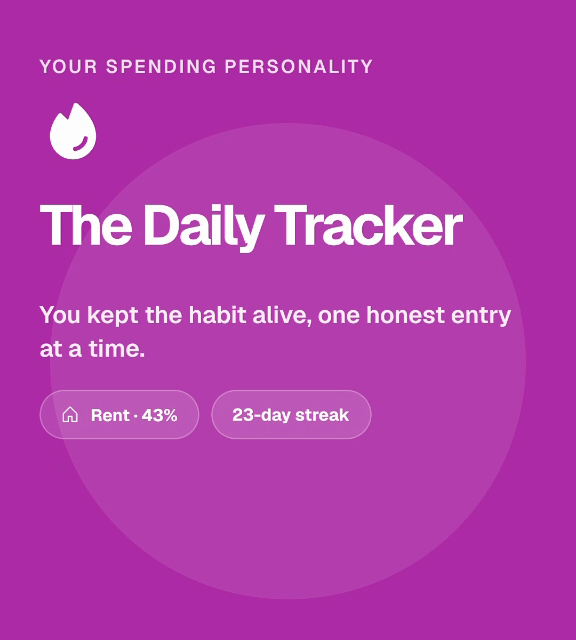
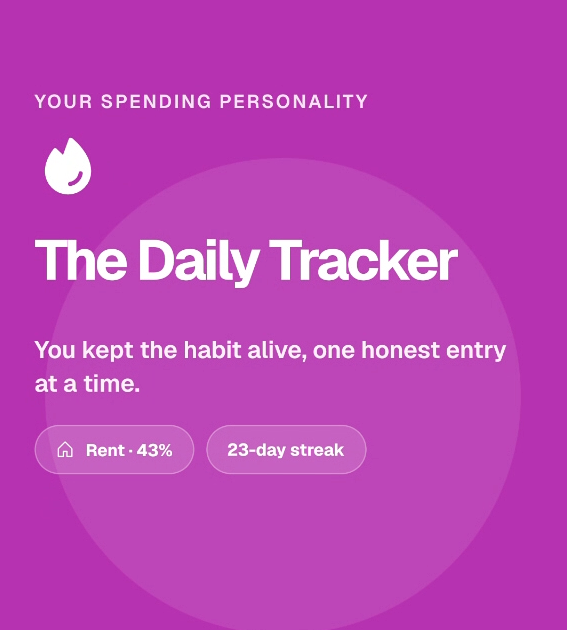
fix(landing): sharper Wrapped persona still from a PNG screenshot
Lossless phone screenshot instead of an H.264 frame, and quality 90 on
both Wrapped images so the optimizer stops softening them.

Changed region(s): [[0.06, 0.1508, 0.9295, 1.0], [0.06, 0.0905, 0.6596, 0.1206]]

diff --git a/src/views/LandingPage.tsx b/src/views/LandingPage.tsx
@@ -180,8 +180,8 @@ export function LandingPage({ monthlyPrice, ios = false, android = false, intl =
           <h3>A streak worth keeping.</h3>
           <p>Expense Wrapped turns your month into a recap, longest logging streak included.</p>
           <div className="lp-win-shots">
-            <Image src={`/landing/${intl ? 'intl/' : ''}wrapped-streak.png`} alt={intl ? 'That\'s a wrap: 27 active days, $3,495.27 spent, longest streak 23 days.' : 'That\'s a wrap: 27 active days, ₹1,08,659 spent, longest streak 15 days.'} width={576} height={640} sizes="(max-width: 760px) 45vw, 250px" />
-            <Image src={`/landing/${intl ? 'intl/' : ''}wrapped-persona.png`} alt={intl ? 'Your spending personality: The Daily Tracker.' : 'Your spending personality: The Quiet Investor.'} width={576} height={640} sizes="(max-width: 760px) 45vw, 250px" />
+            <Image src={`/landing/${intl ? 'intl/' : ''}wrapped-streak.png`} alt={intl ? 'That\'s a wrap: 27 active days, $3,495.27 spent, longest streak 23 days.' : 'That\'s a wrap: 27 active days, ₹1,08,659 spent, longest streak 15 days.'} width={576} height={640} quality={90} sizes="(max-width: 760px) 45vw, 250px" />
+            <Image src={`/landing/${intl ? 'intl/' : ''}wrapped-persona.png`} alt={intl ? 'Your spending personality: The Daily Tracker.' : 'Your spending personality: The Quiet Investor.'} width={567} height={630} quality={90} sizes="(max-width: 760px) 45vw, 250px" />
           </div>
         </article>
       </div>
